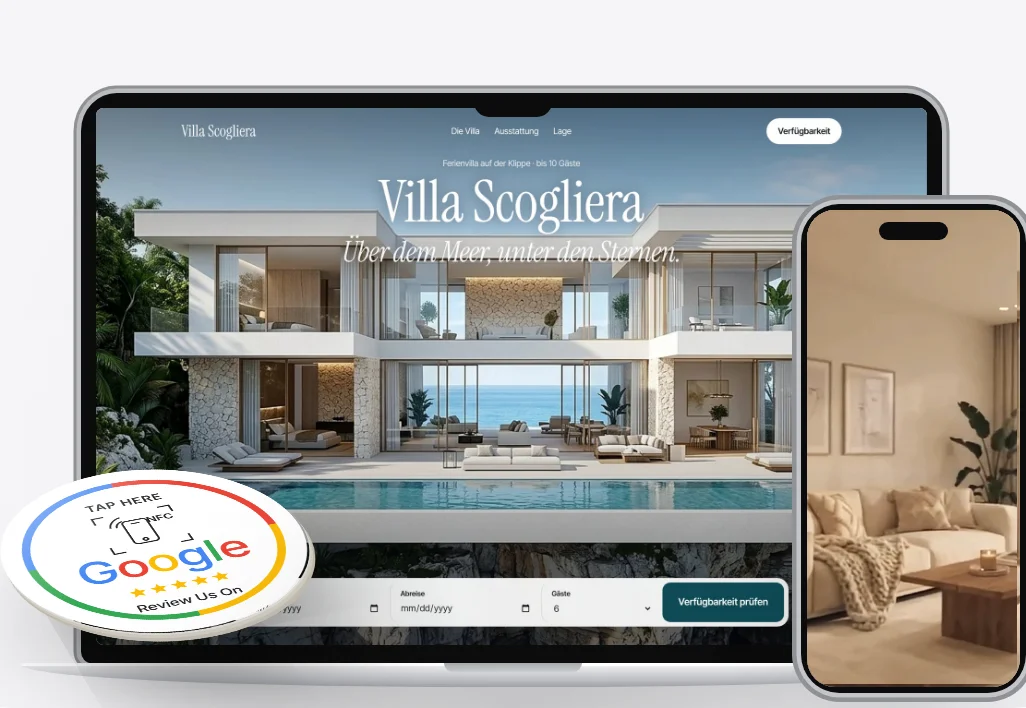
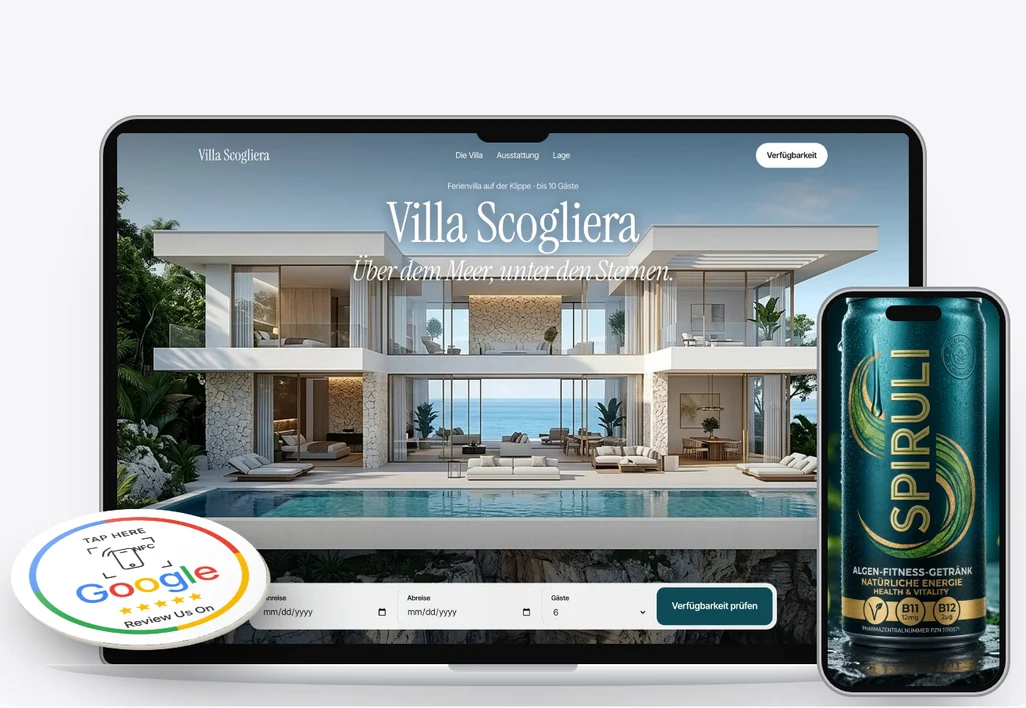
Weiterleitungen als 301, Handy-Startbild mit KI-Shot, Lernbuch und Briefing aktualisiert
Claude-Session: https://claude.ai/code/session_01BmgW4GNGez9WR17nNYcC6h

diff --git a/design/v20-template.html b/design/v20-template.html
@@ -1317,7 +1317,7 @@ body.in-choose .dock { transform: translateY(160%); pointer-events: none; }
       </div>
     </div>
     <div class="hero__stage">
-    <img class="lineup-img" src="/media/hero-lineup.webp?v=2" alt="Beispiele von FOAV: Website auf dem Laptop, KI-Werbeclip auf dem Handy und eine NFC-Platte" width="1026" height="708">
+    <img class="lineup-img" src="/media/hero-lineup.webp?v=3" alt="Beispiele von FOAV: Website auf dem Laptop, KI-Werbeclip auf dem Handy und eine NFC-Platte" width="1026" height="708">
     <nav class="hs" aria-label="Unsere Angebote">
       <a class="hs__a hs-web" href="#websites"><span>Website <b>ab 399 €</b></span></a>
       <a class="hs__a hs-room" href="#ki-shots"><span>KI-Shots <b>ab 199 €</b></span></a>

diff --git a/public/site/index.html b/public/site/index.html
@@ -1348,7 +1348,7 @@ body.in-choose .dock { transform: translateY(160%); pointer-events: none; }
       </div>
     </div>
     <div class="hero__stage">
-    <img class="lineup-img" src="/media/hero-lineup.webp?v=2" alt="Beispiele von FOAV: Website auf dem Laptop, KI-Werbeclip auf dem Handy und eine NFC-Platte" width="1026" height="708">
+    <img class="lineup-img" src="/media/hero-lineup.webp?v=3" alt="Beispiele von FOAV: Website auf dem Laptop, KI-Werbeclip auf dem Handy und eine NFC-Platte" width="1026" height="708">
     <nav class="hs" aria-label="Unsere Angebote">
       <a class="hs__a hs-web" href="#websites"><span>Website <b>ab 399 €</b></span></a>
       <a class="hs__a hs-room" href="#ki-shots"><span>KI-Shots <b>ab 199 €</b></span></a>

diff --git a/CLAUDE.md b/CLAUDE.md
@@ -7,6 +7,13 @@ Gründer: Florian Dressler (+49 155 66456417) und Davy Stubenrauch (+49 176 5661
 - `.claude/skills/foav-website` (Kunden-Websites: Ablauf, Pakete, Design-Regeln, Recht), `foav-selbstpruefung` (Pflicht vor jeder Übergabe: Screenshots Handy/Computer, 2 Verbesserungsrunden), `foav-roomtour` (Higgsfield → Treue-Prüfung → ffmpeg), `foav-lernbuch` (`lernbuch.md` = Gedächtnis zwischen Sitzungen; zu Beginn lesen, nach jedem Projekt ergänzen).
 - Kundenprojekte: eigene private Repos; neue Sitzung mit **zwei** Repos starten (`Webseite-` + Kunden-Repo), damit die Skills geladen werden. **Standardzweig des Repos muss `claude/hopeful-goodall-m39gmd` sein** (GitHub → Settings → Default branch), sonst sehen neue Sitzungen den alten Stand.
 
+## Stand: KI-Shots statt KI-Roomtours, NFC mit Logo (14.11.)
+- Kunde: „ich mache KI-Werbeshots statt Roomtouren“ + großes Upgrade (Website-Angebot unverändert). Roomtours überall ersetzt durch **KI-Shots & Werbevideos** (`/ki-shots`, Fragebogen `/anfrage/ki-shots`, `components/forms/ShotsBriefing.tsx`), Pakete Starter 199 / Pro 449 (Empfohlen) / Brand-Paket 899 € (`lib/shop.ts` shots-*). 301-Weiterleitungen `/roomtours`, `/site/roomtours.html`, `/anfrage/roomtour`.
+- Medien von Higgsfield: `public/images/ki-shots/` (SPIRULI vorher/nachher, Studio dunkel/clean, NFC-Logo-Platten), `public/videos/spiruli-shot-portrait|wide.mp4`. Vorher/Nachher-Regler mit Stilen Studio dunkel / Clean Studio / Werbeclip. Handy-Startbild `hero-lineup.webp` neu (SPIRULI statt Roomtour).
+- NFC: Abschnitt `#editionen` Classic 14,90 € vs **Custom Brand Edition 29,90 €** (27,90 ab 5, 24,90 ab 10), Paketwahl mit Umschalter, Logo-Fragebogen `/anfrage/nfc` (Logo Pflicht, Vorschau vor Produktion), Checkout verlangt für Logo-Platten eine Fragebogen-Nummer; optionales Feld Google-Link im Shop.
+- AGB §1–§8 und Datenschutz (Higgsfield als KI-Dienst, evtl. Übermittlung außerhalb der EU) angepasst → rechtlich prüfen lassen. Kontaktformular-Fehler (NFC ohne Menge → 422) behoben, toter React-Code und `lib/pricing.ts` u. a. entfernt.
+- Offen: Lieferant und Produktionszeit der Logo-Platten, Higgsfield-Nutzungsbedingungen (kommerziell), Stripe- und Blob-Schlüssel in Vercel. Skill `foav-roomtour` ist veraltet.
+
 ## Stand: live auf foav.de, Resend läuft (3.11.)
 - Vercel Production = Zweig `claude/hopeful-goodall-m39gmd` (per Promote; Branch Tracking unter Settings → Environments → Production, falls automatisch gewünscht).
 - Checkdomain: „Haupt-IP-Adresse“ IPv4 = `216.198.79.1` (Vercel), `www` CNAME auf Vercel, E-Mail-Empfang über Checkdomain (info@foav.de), Resend-Einträge `send`, `rsend`, `resend._domainkey`, `_dmarc` stehen. foav.de leitet auf www.foav.de, Zertifikat von außen gültig.

diff --git a/.claude/skills/foav-lernbuch/lernbuch.md b/.claude/skills/foav-lernbuch/lernbuch.md
@@ -4,6 +4,13 @@ Neueste Einträge oben. Regeln, die immer gelten, stehen ganz unten.
 
 ## Einträge
 
+### 2026-11-14 · KI-Shots statt KI-Roomtours
+- Entscheidung der Gründer: Roomtours sind zu aufwendig und verbrauchen zu viele Higgsfield-Credits → ersetzt durch **KI-Shots** (Studio-Fotos + kurze Werbeclips aus Handyfotos): Starter 199 € (5 Fotos, 1 Clip, 48 h), Pro 449 € (12 Fotos, 3 Clips, 72 h, Empfohlen), Brand-Paket 899 € (25 Fotos, 6 Clips + Spot, 72 h).
+- Kosten Higgsfield: `gpt_image_2_6` mit `image_references` ≈ 0,25 Credits pro Bild, `kling3_0` Bild→Video 5 s ≈ 10 Credits, `seedance_2_5` 1080p ≈ 80 Credits (zu teuer für Pakete), 720p ≈ 35. Upload: media_upload → curl PUT an upload.higgsfield.ai (Host freigegeben) → media_confirm.
+- Marktpreise (Recherche): Packshot 14–40 €/Bild, Studio 85–250 €/h, Shooting vor Ort 500–1.500 €/Tag, klassischer 30-s-Spot mehrere Tausend €.
+- NFC jetzt Classic 14,90 € und **Custom Brand Edition 29,90 €** (ab 5: 27,90 €, ab 10: 24,90 €), mit Logo-Fragebogen `/anfrage/nfc` und Design-Vorschau vor Produktion. Lieferant/Produktionszeit der Logo-Platten noch bestätigen.
+- Weiterleitungen in Next: `statusCode: 301` statt `permanent: true` (gibt 308). Beim lokalen Testen alten `next-server` wirklich beenden, sonst antwortet noch der alte Stand.
+
 ### 2026-11-14 · Story-Video (Lisa und die Bäckerei)
 - Kritik der Gründer am Video mit „Nora“: Stimme klingt alt, zu wenig Effekte, gezeigte alte Website war eine Karikatur. → Helle Stimme „Chloe“ (ElevenLabs v4, Median ~267 Hz), jede Zeile einzeln erzeugen (exakte Zeiten, bessere Betonung).
 - Vorher/Nachher immer mit **demselben, echt wirkenden Betrieb** zeigen (hier erfundene Bäckerei „Morgenduft“, alt = typische Seite von 2014, neu = modern); im Abspann „Beispiel-Geschichte · Betrieb und Personen erfunden“. Keine erfundene Erfolgsgeschichte als echt ausgeben.
